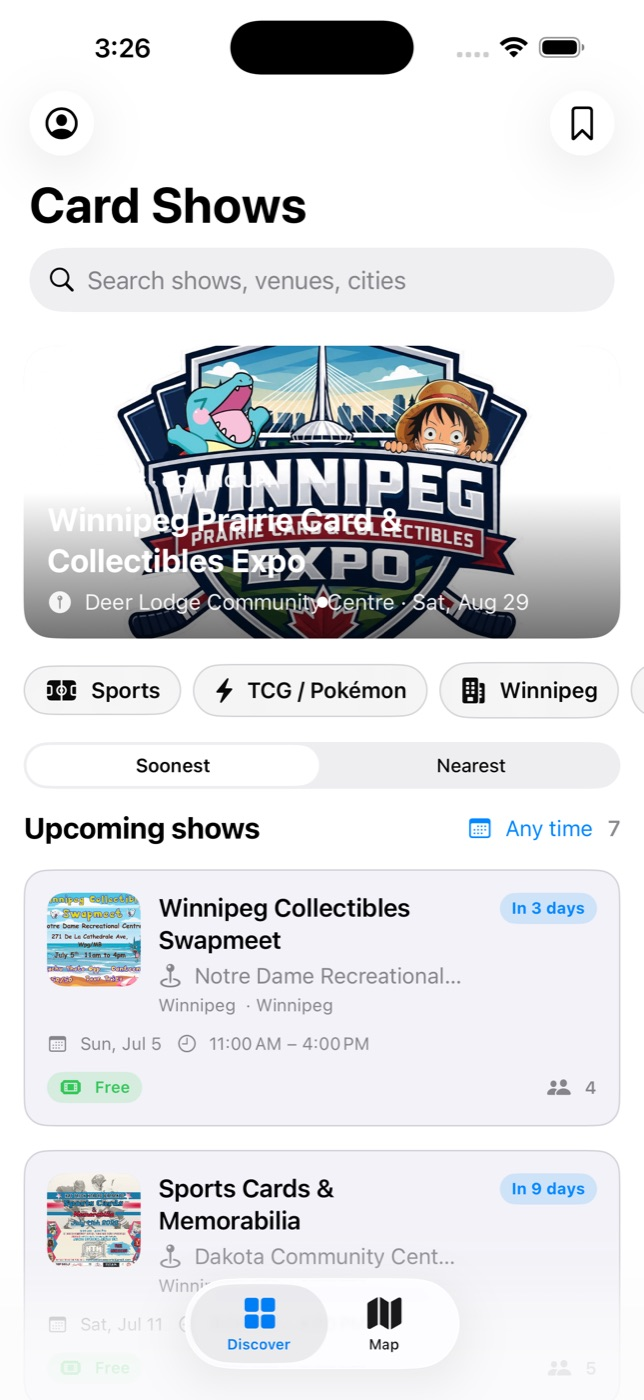
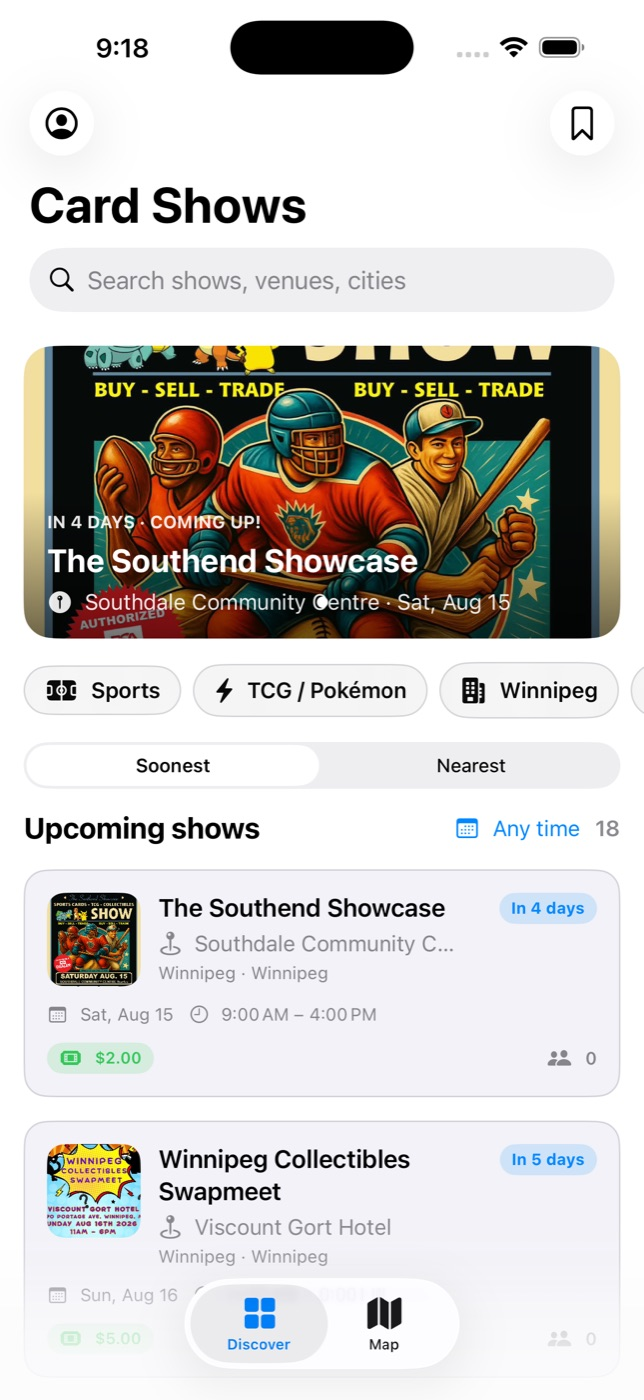
Refresh screenshots with current app build
Recaptured all four from the latest build, so the detail slide now
shows the reworked event hero — readable title over the scrim, badges
clear of the nav bar, and the View flyer button.

diff --git a/index.html b/index.html
@@ -116,7 +116,7 @@
               <figcaption>Every detail in one place</figcaption>
             </figure>
             <figure class="slide">
-              <div class="slide-phone"><img src="assets/screenshots/3-map.jpg" alt="Map of card shows across Manitoba" width="644" height="1400" loading="lazy"></div>
+              <div class="slide-phone"><img src="assets/screenshots/3-map.jpg" alt="Map of card shows pinned across Winnipeg" width="644" height="1400" loading="lazy"></div>
               <figcaption>Find shows near you</figcaption>
             </figure>
             <figure class="slide">
